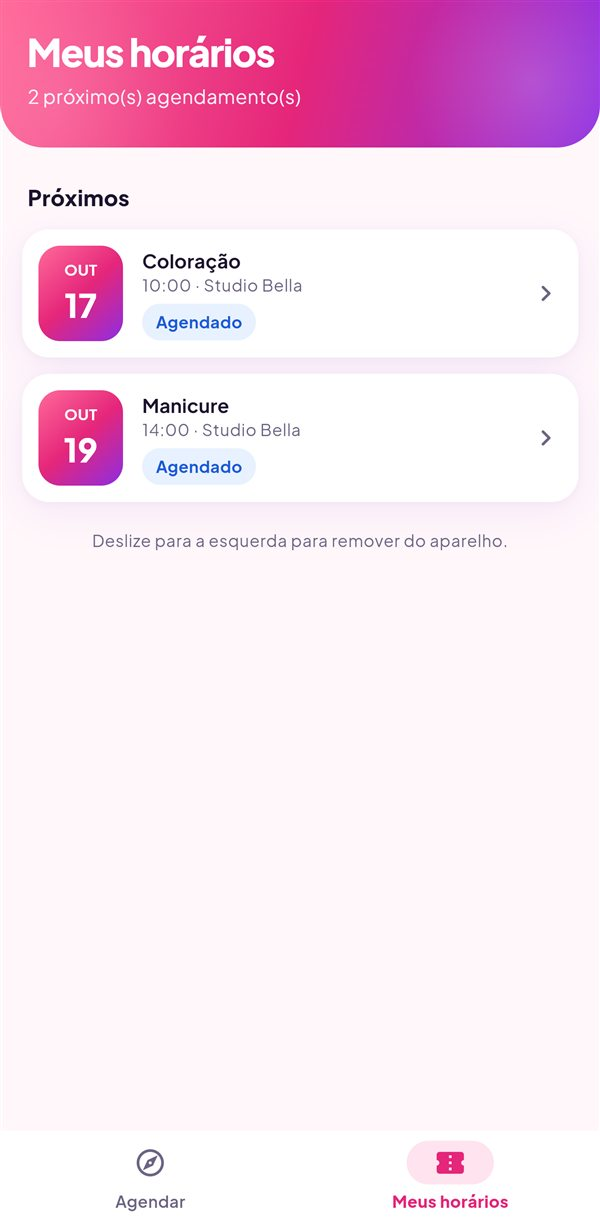
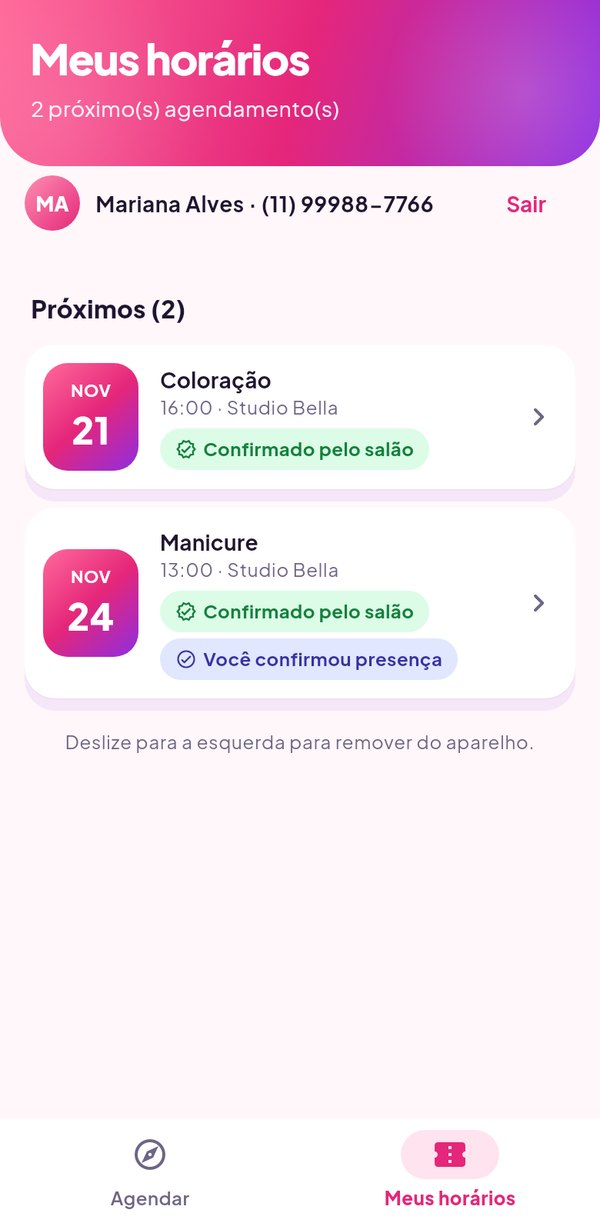
Site: fotos novas dos apps (agenda, novo agendamento, cadastros, financeiro, precificação; busca, salão, horários, confirmado, meus horários)
- Geradas do app atual em tema claro, 390 × 795 dp em dobro de resolução, com dados de exemplo (lucro positivo, plano ativo, sem avisos por cima)
- Cor da barra de status das molduras ajustada a cada foto
- test/shots/site_shots_test.dart (gestão e cliente) refaz as fotos do site; shot() aceita pixelRatio

Claude-Session: https://claude.ai/code/session_01Rwn4y8Y5VyP1sK2p6fp1zq

diff --git a/frontend/src/components/Presentation.tsx b/frontend/src/components/Presentation.tsx
@@ -396,8 +396,8 @@ function Salon({ signup, goTo }: { signup: string; goTo: (a: Audience) => void }
                   {!PLAY_LIVE && <p className="mt-3 text-sm text-white/60">Em breve também na Google Play.</p>}
                 </div>
                 <div className="order-1 mx-auto flex w-full max-w-sm gap-4 lg:order-2">
-                  <PhoneFrame src="/screens/gestao-agenda.webp" top="#2A135C" alt="Agenda do dia no app" className="float-slow w-1/2" />
-                  <PhoneFrame src="/screens/gestao-novo.jpg" top="#13092A" alt="Novo agendamento no app" className="float-slow-2 w-1/2 translate-y-10" />
+                  <PhoneFrame src="/screens/gestao-agenda.webp" top="#2F1762" alt="Agenda do dia no app" className="float-slow w-1/2" />
+                  <PhoneFrame src="/screens/gestao-novo.jpg" top="#150B2D" alt="Novo agendamento no app" className="float-slow-2 w-1/2 translate-y-10" />
                 </div>
               </>
             )}
@@ -521,8 +521,8 @@ function Salon({ signup, goTo }: { signup: string; goTo: (a: Audience) => void }
             </Link>
           </div>
           <div className="mx-auto flex w-full max-w-sm gap-4">
-            <PhoneFrame src="/screens/gestao-cadastros.jpg" top="#231050" alt="Cadastros do salão" className="w-1/2 translate-y-8" />
-            <PhoneFrame src="/screens/gestao-precificacao.jpg" top="#271256" alt="Preço certo de cada serviço" className="w-1/2" />
+            <PhoneFrame src="/screens/gestao-cadastros.jpg" top="#291556" alt="Cadastros do salão" className="w-1/2 translate-y-8" />
+            <PhoneFrame src="/screens/gestao-precificacao.jpg" top="#2C165C" alt="Preço certo de cada serviço" className="w-1/2" />
           </div>
         </div>
       </section>
@@ -561,11 +561,11 @@ function Salon({ signup, goTo }: { signup: string; goTo: (a: Audience) => void }
 }
 
 const CLIENT_STEPS = [
-  { title: "Encontre seu salão", text: "Pelo nome ou pelo link que o salão enviou.", src: "/screens/cliente-home.jpg", top: "#EB3782" },
-  { title: "Escolha o serviço e quem atende", text: "Corte, escova, coloração, manicure e mais, com preço e duração.", src: "/screens/cliente-salao.jpg", top: "#E9317F" },
+  { title: "Encontre seu salão", text: "Pelo nome ou pelo link que o salão enviou.", src: "/screens/cliente-home.jpg", top: "#EC418B" },
+  { title: "Escolha o serviço e quem atende", text: "Corte, escova, coloração, manicure e mais, com preço e duração.", src: "/screens/cliente-salao.jpg", top: "#E5267A" },
   { title: "Toque num horário livre", text: "Os horários são atualizados em tempo real. Sem ligação e sem esperar resposta.", src: "/screens/cliente-horarios.webp", top: "#E5267A" },
-  { title: "Informe nome e WhatsApp", text: "Só isso. Sem cadastro e sem senha. O horário fica confirmado.", src: "/screens/cliente-confirmado.webp", top: "#EE3D85" },
-  { title: "Veja seus horários quando quiser", text: "Próximos agendamentos e histórico, tudo à mão.", src: "/screens/cliente-meus-horarios.jpg", top: "#E6297B" },
+  { title: "Informe nome e WhatsApp", text: "Só isso. Sem cadastro e sem senha. O horário fica confirmado.", src: "/screens/cliente-confirmado.webp", top: "#F0468A" },
+  { title: "Veja seus horários quando quiser", text: "Próximos agendamentos e histórico, tudo à mão.", src: "/screens/cliente-meus-horarios.jpg", top: "#DD3B96" },
 ];
 
 function Client({ goTo }: { goTo: (a: Audience) => void }) {
@@ -918,7 +918,7 @@ export function Presentation({ code, audiences = ["salao", "cliente", "represent
       text: "Agenda, agendamento online, clientes, estoque e financeiro em um só lugar. Use no computador ou no celular.",
       primary: [`Testar ${TRIAL_DAYS} dias grátis`, signup],
       secondary: ["Ver como funciona", "#funcoes"],
-      visual: <PhonePair a={{ src: "/screens/gestao-agenda.webp", top: "#2A135C", alt: "Agenda do dia no app" }} b={{ src: "/screens/gestao-financeiro.webp", top: "#271257", alt: "Financeiro do salão" }} />,
+      visual: <PhonePair a={{ src: "/screens/gestao-agenda.webp", top: "#2F1762", alt: "Agenda do dia no app" }} b={{ src: "/screens/gestao-financeiro.webp", top: "#291557", alt: "Financeiro do salão" }} />,
     },
     cliente: {
       badge: "Para quem agenda no salão",
@@ -930,7 +930,7 @@ export function Presentation({ code, audiences = ["salao", "cliente", "represent
       text: "Sem ligação, sem esperar resposta no WhatsApp e sem criar conta. Escolha o serviço, o profissional e o horário.",
       primary: ["Ver o passo a passo", "#como"],
       secondary: ["Onde eu agendo?", "#onde"],
-      visual: <PhonePair a={{ src: "/screens/cliente-home.jpg", top: "#EB3782", alt: "Escolha do salão" }} b={{ src: "/screens/cliente-horarios.webp", top: "#E5267A", alt: "Horários livres" }} />,
+      visual: <PhonePair a={{ src: "/screens/cliente-home.jpg", top: "#EC418B", alt: "Escolha do salão" }} b={{ src: "/screens/cliente-horarios.webp", top: "#E5267A", alt: "Horários livres" }} />,
     },
     representante: {
       badge: "Programa de representantes",

diff --git a/mobile/cliente/test/shots/site_shots_test.dart b/mobile/cliente/test/shots/site_shots_test.dart
@@ -1,0 +1,85 @@
+import 'dart:convert';
+import 'dart:io';
+
+import 'package:flutter/material.dart';
+import 'package:flutter_test/flutter_test.dart';
+import 'package:intl/date_symbol_data_local.dart';
+import 'package:salao_cliente/booking_store.dart';
+import 'package:salao_cliente/screens/booking_screen.dart';
+import 'package:salao_cliente/screens/home_screen.dart';
+import 'package:salao_cliente/screens/salon_screen.dart';
+import 'package:salao_core/salao_core.dart';
+import 'package:shared_preferences/shared_preferences.dart';
+
+import '../support/screenshot.dart';
+
+/// Fotos do app do cliente para o site (frontend/public/screens): tema claro, 390 × 795 dp, o dobro de resolução.
+/// SHOTS=1 SHOT_DIR=build/site TOKENS=/caminho/tokens.json flutter test test/shots/site_shots_test.dart --dart-define=API_URL=http://localhost:8085
+void main() {
+  final tokens = shotsEnabled ? jsonDecode(File(Platform.environment['TOKENS']!).readAsStringSync()) as Map<String, dynamic> : <String, dynamic>{};
+
+  setUpAll(() async {
+    HttpOverrides.global = null;
+    await initializeDateFormatting('pt_BR');
+  });
+
+  Future<BookingStore> store({bool saved = true}) async {
+    SharedPreferences.setMockInitialValues({
+      'bookings': saved
+          ? [
+              for (final k in ['aceito', 'confirmado']) jsonEncode({'slug': 'studio-bella', 'token': tokens[k], 'salonName': 'Studio Bella'})
+            ]
+          : <String>[],
+      if (saved) 'salons': [jsonEncode({'slug': 'studio-bella', 'name': 'Studio Bella'})],
+      'customer.name': 'Mariana Alves',
+      'customer.phone': '11999887766',
+      'notifications.asked': true,
+    });
+    return BookingStore.load();
+  }
+
+  final api = ApiClient();
+
+  void site(String name, Future<Widget> Function() build, {Future<void> Function(WidgetTester t)? before}) {
+    testWidgets(name, (tester) async {
+      final w = await build();
+      await shot(tester, w, name, width: 390, height: 795, dark: false, pixelRatio: 2, before: before);
+    }, skip: !shotsEnabled);
+  }
+
+  site('cliente-home', () async => HomeScreen(store: await store(), api: api));
+  // a lista só monta o que está na tela: rola até o texto
+  Future<void> scrollTo(WidgetTester t, String text, {double extra = 0}) async {
+    await t.scrollUntilVisible(find.text(text), 200, scrollable: find.byType(Scrollable).first);
+    await t.pump();
+    await t.ensureVisible(find.text(text)); // título no topo da tela
+    await t.pump();
+    if (extra != 0) {
+      await t.drag(find.byType(Scrollable).first, Offset(0, -extra));
+      await t.pump();
+    }
+  }
+
+  site('cliente-salao', () async => SalonScreen(slug: 'studio-bella', store: await store(), api: api), before: (t) async {
+    await scrollTo(t, '1. Escolha o serviço', extra: -60);
+  });
+  site('cliente-horarios', () async => SalonScreen(slug: 'studio-bella', store: await store(), api: api), before: (t) async {
+    await scrollTo(t, 'Coloração');
+    await t.tap(find.text('Coloração').last);
+    await t.pump();
+    await settleNetwork(t, rounds: 10);
+    await scrollTo(t, '3. Quando?', extra: -60);
+    // dia seguinte: hoje à tarde sobram poucos horários
+    final tomorrow = DateTime.now().add(const Duration(days: 1)).day.toString();
+    await t.tap(find.text(tomorrow).first);
+    await t.pump();
+    await settleNetwork(t, rounds: 8);
+  });
+  site('cliente-confirmado',
+      () async => BookingScreen(slug: 'studio-bella', token: tokens['confirmado'] as String, api: api, salonName: 'Studio Bella'));
+  site('cliente-meus-horarios', () async => HomeScreen(store: await store(), api: api), before: (t) async {
+    await t.tap(find.text('Meus horários').last);
+    await t.pump();
+    await settleNetwork(t, rounds: 14);
+  });
+}

diff --git a/mobile/gestao/test/shots/site_shots_test.dart b/mobile/gestao/test/shots/site_shots_test.dart
@@ -1,0 +1,55 @@
+import 'dart:io';
+
+import 'package:flutter/material.dart';
+import 'package:flutter_secure_storage/flutter_secure_storage.dart';
+import 'package:flutter_test/flutter_test.dart';
+import 'package:intl/date_symbol_data_local.dart';
+import 'package:salao_gestao/screens/pricing_screen.dart';
+import 'package:salao_gestao/screens/shell.dart';
+import 'package:salao_gestao/session.dart';
+import 'package:shared_preferences/shared_preferences.dart';
+
+import '../support/screenshot.dart';
+
+/// Fotos do app para o site (frontend/public/screens): tema claro, 390 × 795 dp, o dobro de resolução.
+/// SHOTS=1 SHOT_DIR=build/site flutter test test/shots/site_shots_test.dart --dart-define=API_URL=http://localhost:8085
+void main() {
+  setUpAll(() async {
+    HttpOverrides.global = null;
+    await initializeDateFormatting('pt_BR');
+  });
+
+  Future<Session> signedIn(WidgetTester tester) async {
+    FlutterSecureStorage.setMockInitialValues({});
+    SharedPreferences.setMockInitialValues({});
+    final session = Session();
+    await tester.runAsync(() => session.login('dona@shots.test', 'senha123'));
+    return session;
+  }
+
+  void site(String name, Widget Function(Session s) build, {Future<void> Function(WidgetTester t)? before}) {
+    testWidgets(name, (tester) async {
+      final s = await signedIn(tester);
+      await shot(tester, build(s), name, width: 390, height: 795, dark: false, pixelRatio: 2, before: before);
+    }, skip: !shotsEnabled);
+  }
+
+  Future<void> tab(WidgetTester t, String label) async {
+    await t.tap(find.text(label).last);
+    await t.pump();
+    await settleNetwork(t, rounds: 8);
+  }
+
+  site('gestao-agenda', (s) => Shell(session: s));
+  site('gestao-novo', (s) => Shell(session: s), before: (t) async {
+    await t.tap(find.text('Agendar').last);
+    await t.pump();
+    await settleNetwork(t, rounds: 8);
+  });
+  site('gestao-cadastros', (s) => Shell(session: s), before: (t) => tab(t, 'Cadastros'));
+  site('gestao-financeiro', (s) => Shell(session: s), before: (t) async {
+    await tab(t, 'Painel');
+    await tab(t, 'Financeiro');
+  });
+  site('gestao-precificacao', (s) => PricingScreen(api: s.api));
+}

diff --git a/mobile/cliente/test/support/screenshot.dart b/mobile/cliente/test/support/screenshot.dart
@@ -50,6 +50,8 @@ Future<String> shot(
   double textScale = 1,
   bool dark = true,
   Future<void> Function(WidgetTester tester)? before,
+  /// Resolução da imagem (2 = o dobro, para o site).
+  double pixelRatio = 1,
 }) async {
   await loadAppFonts();
   tester.view.physicalSize = Size(width * 2, height * 2);
@@ -80,7 +82,7 @@ Future<String> shot(
   final path = '$dir/$name.png';
   await tester.runAsync(() async {
     final boundary = key.currentContext!.findRenderObject() as RenderRepaintBoundary;
-    final image = await boundary.toImage(pixelRatio: 1);
+    final image = await boundary.toImage(pixelRatio: pixelRatio);
     final data = await image.toByteData(format: ui.ImageByteFormat.png);
     File(path).writeAsBytesSync(data!.buffer.asUint8List());
   });

diff --git a/mobile/gestao/test/support/screenshot.dart b/mobile/gestao/test/support/screenshot.dart
@@ -50,6 +50,8 @@ Future<String> shot(
   double textScale = 1,
   bool dark = true,
   Future<void> Function(WidgetTester tester)? before,
+  /// Resolução da imagem (2 = o dobro, para o site).
+  double pixelRatio = 1,
 }) async {
   await loadAppFonts();
   tester.view.physicalSize = Size(width * 2, height * 2);
@@ -80,7 +82,7 @@ Future<String> shot(
   final path = '$dir/$name.png';
   await tester.runAsync(() async {
     final boundary = key.currentContext!.findRenderObject() as RenderRepaintBoundary;
-    final image = await boundary.toImage(pixelRatio: 1);
+    final image = await boundary.toImage(pixelRatio: pixelRatio);
     final data = await image.toByteData(format: ui.ImageByteFormat.png);
     File(path).writeAsBytesSync(data!.buffer.asUint8List());
   });

diff --git a/frontend/src/app/page.tsx b/frontend/src/app/page.tsx
@@ -141,8 +141,8 @@ export default function Home() {
             </Link>
           </div>
           <div className="mx-auto flex w-full max-w-sm gap-4">
-            <PhoneFrame src="/screens/gestao-financeiro.webp" top="#271257" alt="Financeiro do salão" className="w-1/2 translate-y-8" />
-            <PhoneFrame src="/screens/cliente-confirmado.webp" top="#EE3D85" alt="Agendamento confirmado" className="w-1/2" />
+            <PhoneFrame src="/screens/gestao-financeiro.webp" top="#291557" alt="Financeiro do salão" className="w-1/2 translate-y-8" />
+            <PhoneFrame src="/screens/cliente-confirmado.webp" top="#F0468A" alt="Agendamento confirmado" className="w-1/2" />
           </div>
         </div>
       </section>
